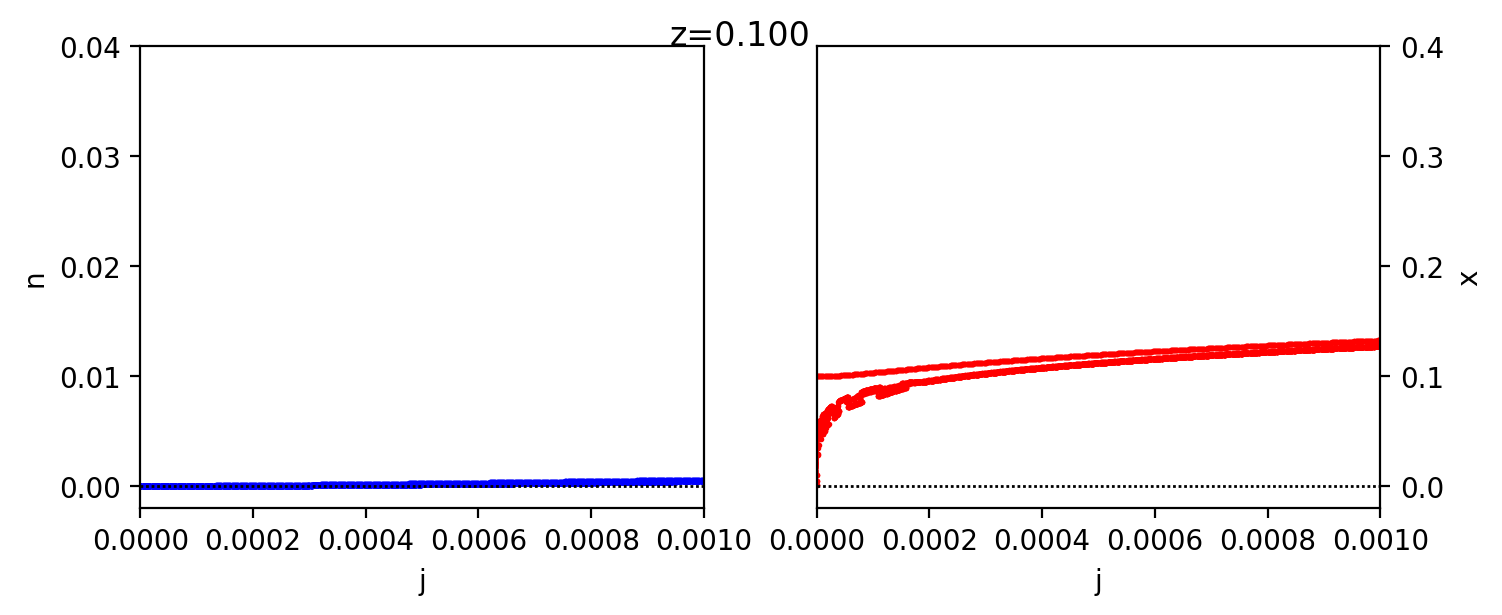
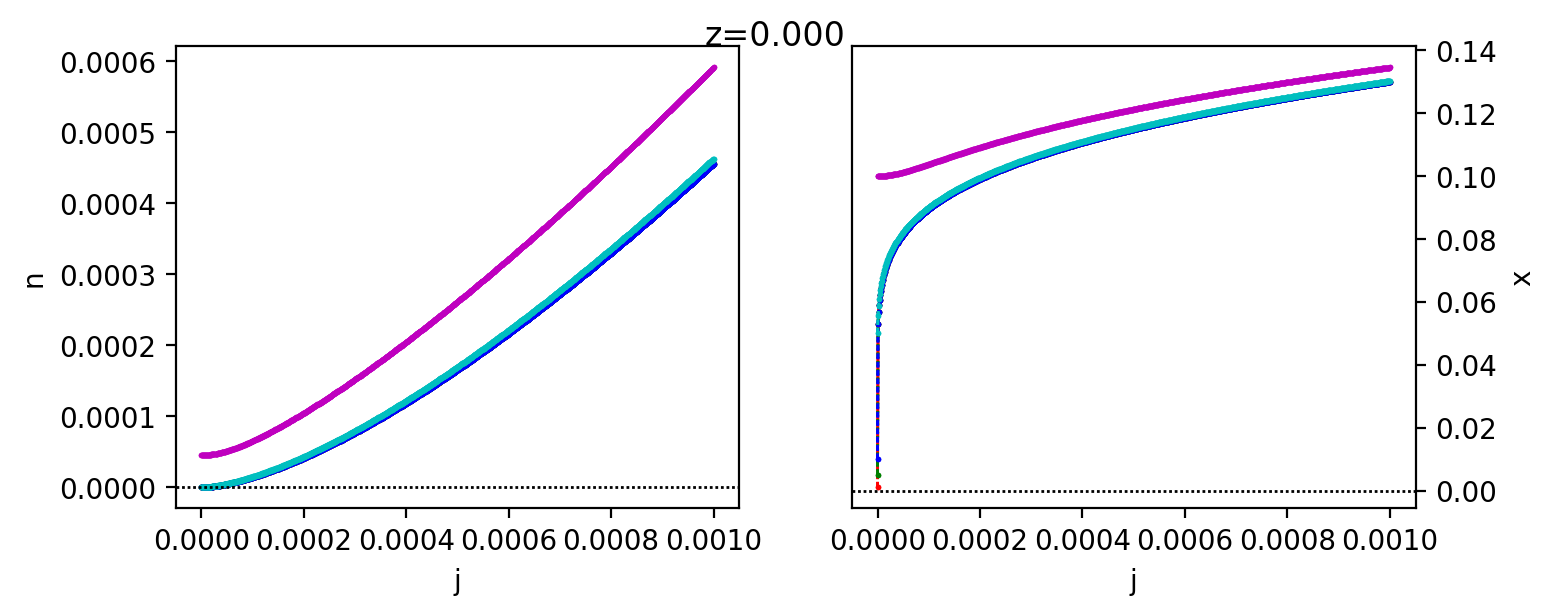
auto commit

diff --git a/bistable/defects/m_bistable_defects.py b/bistable/defects/m_bistable_defects.py
@@ -2,80 +2,14 @@
 import numpy as np
 import matplotlib.pyplot as plt
 import h5py
-
-from scipy.optimize import root_scalar
-
-# --------------------------------------------------------------------------------------------------
-
-def _find_zeros_adaptive(func,x,args=(),x_tol=1e-16,max_iter=10,debug=False):
-
-    """
-    find the zeros of a function using an adaptive mesh. works for any number of zeros.
-
-    first, find all zeros on the given coarse mesh, x. then for each zero, divide the interval
-    containing the zero into x.size points and find the zeros again. repeat until the difference
-    in the numerical of the value of the zero is within x_tol or max_iter iterations is reached.
-    repeat for all zeros on the coarse mesh. 
-
-    nb. if the initial mesh is so coarse that multiple zeros are contained in the same interval, 
-    then some zeros will be missed.
-    """
-
-    root_scalar(lambda x: func(x,*args), method='bisect')
-
-    num_x = x.size
-
-    arr = func(x,*args)
-    diff = np.diff(np.sign(arr))
-    inds = np.flatnonzero(diff)
-    num_zeros = inds.size
-
-    zeros = np.zeros(num_zeros)
-        
-    for ii, ind in enumerate(inds):
-
-        converged = False
-
-        x_lo = x[ind]
-        x_hi = x[ind+1]
-        x_0 = (x_lo + x_hi) / 2
-
-        for iter in range(max_iter):
-
-            _x = np.linspace(x_lo,x_hi,num_x)
-            _arr = func(_x,*args)
-
-            if debug:
-                plt.plot(x,arr,c='k',lw=1)
-                plt.plot(_x,_arr,c='m',lw=1)
-                plt.axhline(0,lw=0.5,ls=(0,(2,1)))
-                plt.axis([x_lo,x_hi,_arr[0],_arr[-1]])
-                plt.show()
-                plt.clf()
-
-            _diff = np.diff(np.sign(_arr))
-            _ind = np.flatnonzero(_diff).squeeze()
-
-            x_lo = _x[_ind]
-            x_hi = _x[_ind+1]
-            _x_0 = (x_lo + x_hi) / 2
-
-            if np.abs(x_0-_x_0) < x_tol:
-                converged = True
-                break
-
-            x_0 = _x_0
-
-        zeros[ii] = _x_0
-
-    return zeros.squeeze()
+import scipy
 
 # --------------------------------------------------------------------------------------------------
 
-def find_zeros_adaptive(func,x,args=(),x_tol=1e-16,max_iter=10,debug=False):
+def find_zeros_adaptive(func,x,args=(),x_tol=1e-16,max_iter=100,verbose=False):
 
     """
-    ...
+    find multiple zeros of a function to high precision. uses scipy.optimize.root_scalar
     """
 
     arr = func(x,*args)
@@ -90,8 +24,13 @@ def find_zeros_adaptive(func,x,args=(),x_tol=1e-16,max_iter=10,debug=False):
         x_lo = x[ind]
         x_hi = x[ind+1]
         
-        res = root_scalar(lambda x: func(x,*args), method='bisect', bracket=[x_lo,x_hi], 
-                          xtol=1e-16)
+        res = scipy.optimize.root_scalar(lambda x: func(x,*args), method='bisect', 
+                                         bracket=[x_lo,x_hi], xtol=x_tol, maxiter=max_iter)
+        
+        if verbose:
+            print('')
+            print(res)
+            print('')
 
         zeros[ii] = res.root
 
@@ -153,7 +92,7 @@ class c_bistable_defects:
 
     # ----------------------------------------------------------------------------------------------
 
-    def solve_constant_j(self,j,n_lo_guess=0.001,n_hi_guess=0.999,max_iter=500,n_tol=1e-9,
+    def solve_constant_j(self,j,n_lo_guess=0.001,n_hi_guess=0.999,max_iter=200,n_tol=1e-9,
                          alpha=0.4):
 
         """
@@ -168,12 +107,12 @@ class c_bistable_defects:
         print(f'\nconstant j: {j:9.6e}')
 
         # low n guess
-        print(f'\nsolving for low n guess: n_in={n_lo_guess:9.6e}')
+        print(f'\nsolving for low n guess: n_in = {n_lo_guess:9.6e}')
         n_lo, x_lo, res_lo = \
             self._solve_self_consistent_constant_j(n_lo_guess,max_iter,n_tol,alpha)
 
         # hi n guess
-        print(f'\nsolving for high n guess: n_in={n_hi_guess:9.6e}')
+        print(f'\nsolving for high n guess: n_in = {n_hi_guess:9.6e}')
         n_hi, x_hi, res_hi = \
             self._solve_self_consistent_constant_j(n_hi_guess,max_iter,n_tol,alpha)
 
@@ -210,8 +149,8 @@ class c_bistable_defects:
             within tolerances.
         """
 
-        print('\n  iter  n_out    x_0      convergence')
-        print('--------------------------------------')
+        print('\n  iter   n_out          x_0           convergence')
+        print('------------------------------------------------------')
 
         converged = False
         for iter in range(max_iter):
@@ -291,19 +230,6 @@ class c_bistable_defects:
         _z = self.z
 
         return np.exp(-1/x) * np.exp(_v*_z/x)
-
-    # ----------------------------------------------------------------------------------------------
-
-    def _find_zeros(self,arr):
-
-        """
-        find the 0's in the array arr.
-        """
-        
-        diff = np.diff(np.sign(arr))
-        zeros = np.flatnonzero(diff)
-        
-        return zeros, diff
     
     # ----------------------------------------------------------------------------------------------
 
@@ -322,7 +248,7 @@ class c_bistable_defects:
 def run_v(y=0.1,z=0.1):
 
     """
-    sweep over v
+    run calculation for an array of v
     """
 
     num_v = 501
@@ -363,11 +289,11 @@ def run_v(y=0.1,z=0.1):
 def run_j(y=0.1,z=0.1):
 
     """
-    sweep over v
+    run a calculation for an array of j
     """
 
     num_j = 1001
-    j = np.linspace(0.0,0.1,num_j)
+    j = np.linspace(0.0,0.01,num_j)
 
     n_lo = np.zeros(num_j,dtype=float)
     x_lo = np.zeros(num_j,dtype=float)
@@ -381,7 +307,7 @@ def run_j(y=0.1,z=0.1):
         
         bistable = c_bistable_defects(y=y,z=z,x_hi=1.0,num_x=10001)
         n_lo[ii], x_lo[ii], n_hi[ii], x_hi[ii] = bistable.solve_constant_j(jj,
-                                    n_lo_guess=1e-3,n_hi_guess=0.5,n_tol=1e-9,alpha=0.4)
+                                    n_lo_guess=0.1,n_hi_guess=0.5,n_tol=1e-9,alpha=0.1)
 
         count += 1
 
@@ -402,7 +328,7 @@ def run_j(y=0.1,z=0.1):
 def run_j_sweep_over_y(y_list=[0.0,0.1],z=0.1):
 
     """
-    sweep over j
+    sweep over multiple y for the same j 
     """
 
     import mpi4py.MPI as mpi
@@ -434,10 +360,9 @@ if __name__ == '__main__':
     # y_list = [0.001,0.005,0.010,0.050,0.100,0.500]
     # run_j_sweep_over_y(y_list,z)
 
-    z = 0.0
     y_list = [0.001,0.005,0.010,0.050,0.100,0.500]
-    run_j_sweep_over_y(y_list,z)
 
-
-
+    z_list = [0.0,0.001,0.005,0.010,0.050,0.100]
+    for zz in z_list:
+        run_j_sweep_over_y(y_list,zz)
 

diff --git a/bistable/defects/plot_j_all_in_one.py b/bistable/defects/plot_j_all_in_one.py
@@ -28,17 +28,17 @@ def get_data(filename):
 fig, ax = plt.subplots(1,2,figsize=(8,3),gridspec_kw={'hspace':0.15,'wspace':0.2})
 
 y_list = [0.001,0.005,0.010,0.050,0.100]
-
-for y in y_list:
+colors = ['r','g','b','c','m']
+for ii, y in enumerate(y_list):
 
     print(y)
 
     n_lo, x_lo, n_hi, x_hi, j, y, z = get_data(f'results_j_y_{y:.3f}_z_{z:.3f}.h5')
 
-    ax[0].plot(j,n_lo,c='b',lw=1,ls=(0,(2,1)),marker='o',ms=1)
-    ax[1].plot(j,x_lo,c='r',lw=1,ls=(0,(2,1)),marker='o',ms=1)
-    ax[0].plot(j,n_hi,c='b',lw=1,ls=(0,(2,1)),marker='o',ms=1)
-    ax[1].plot(j,x_hi,c='r',lw=1,ls=(0,(2,1)),marker='o',ms=1)
+    ax[0].plot(j,n_lo,c=colors[ii],lw=1,ls=(0,(2,1)),marker='o',ms=1)
+    ax[1].plot(j,x_lo,c=colors[ii],lw=1,ls=(0,(2,1)),marker='o',ms=1)
+    ax[0].plot(j,n_hi,c=colors[ii],lw=1,ls=(0,(2,1)),marker='o',ms=1)
+    ax[1].plot(j,x_hi,c=colors[ii],lw=1,ls=(0,(2,1)),marker='o',ms=1)
 
 # ax[0].annotate('(a)',xy=(0.05,0.85),xycoords='axes fraction',c='k')
 # ax[0].annotate(f'y={y:.2f}',xy=(0.4,0.85),xycoords='axes fraction',c='k')
@@ -53,8 +53,13 @@ ax[1].set_ylabel('x')
 
 fig.suptitle(f'z={z:.3f}',y=0.925)
 
-ax[0].axis([0,0.001,-0.004/2,0.04])
-ax[1].axis([0,0.001,-0.04/2,0.4])
+# ax[0].set_yscale('log')
+# ax[1].set_yscale('log')
+
+# ax[0].axis([0,0.001,-0.004/2,0.04])
+# ax[1].axis([0,0.001,-0.04/2,0.4])
+# ax[0].axis([0,0.1,-0.004/2,0.04])
+# ax[1].axis([0,0.1,-0.04/2,0.4])
 
 ax[0].axhline(0,lw=1,ls=(0,(1,1)),c='k')
 ax[1].axhline(0,lw=1,ls=(0,(1,1)),c='k')
